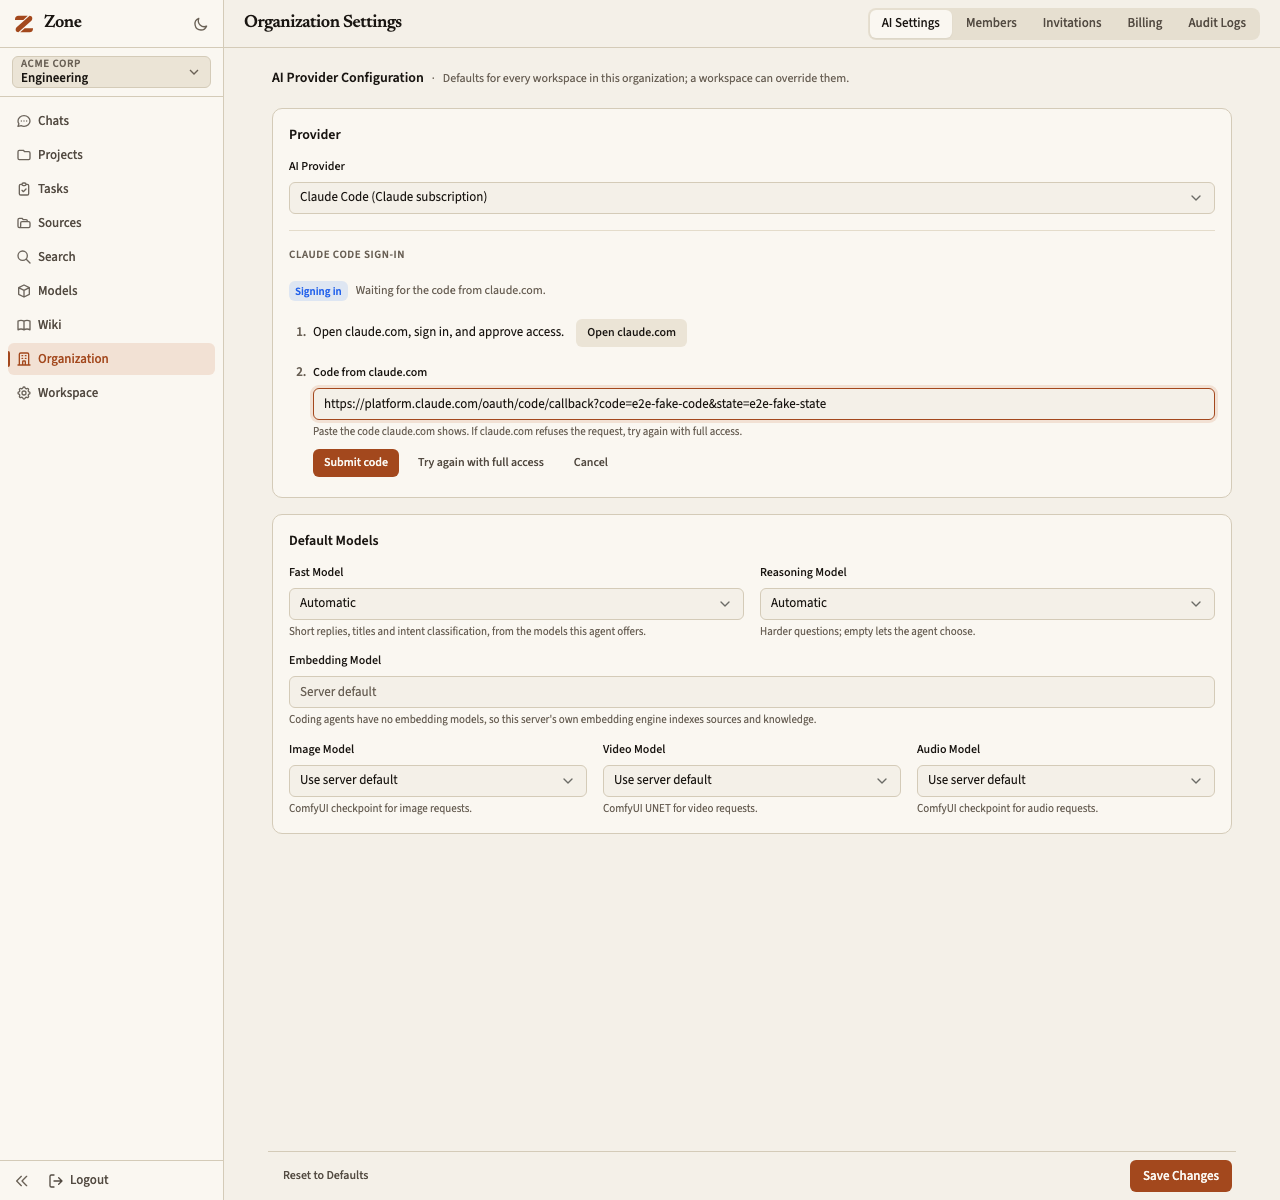
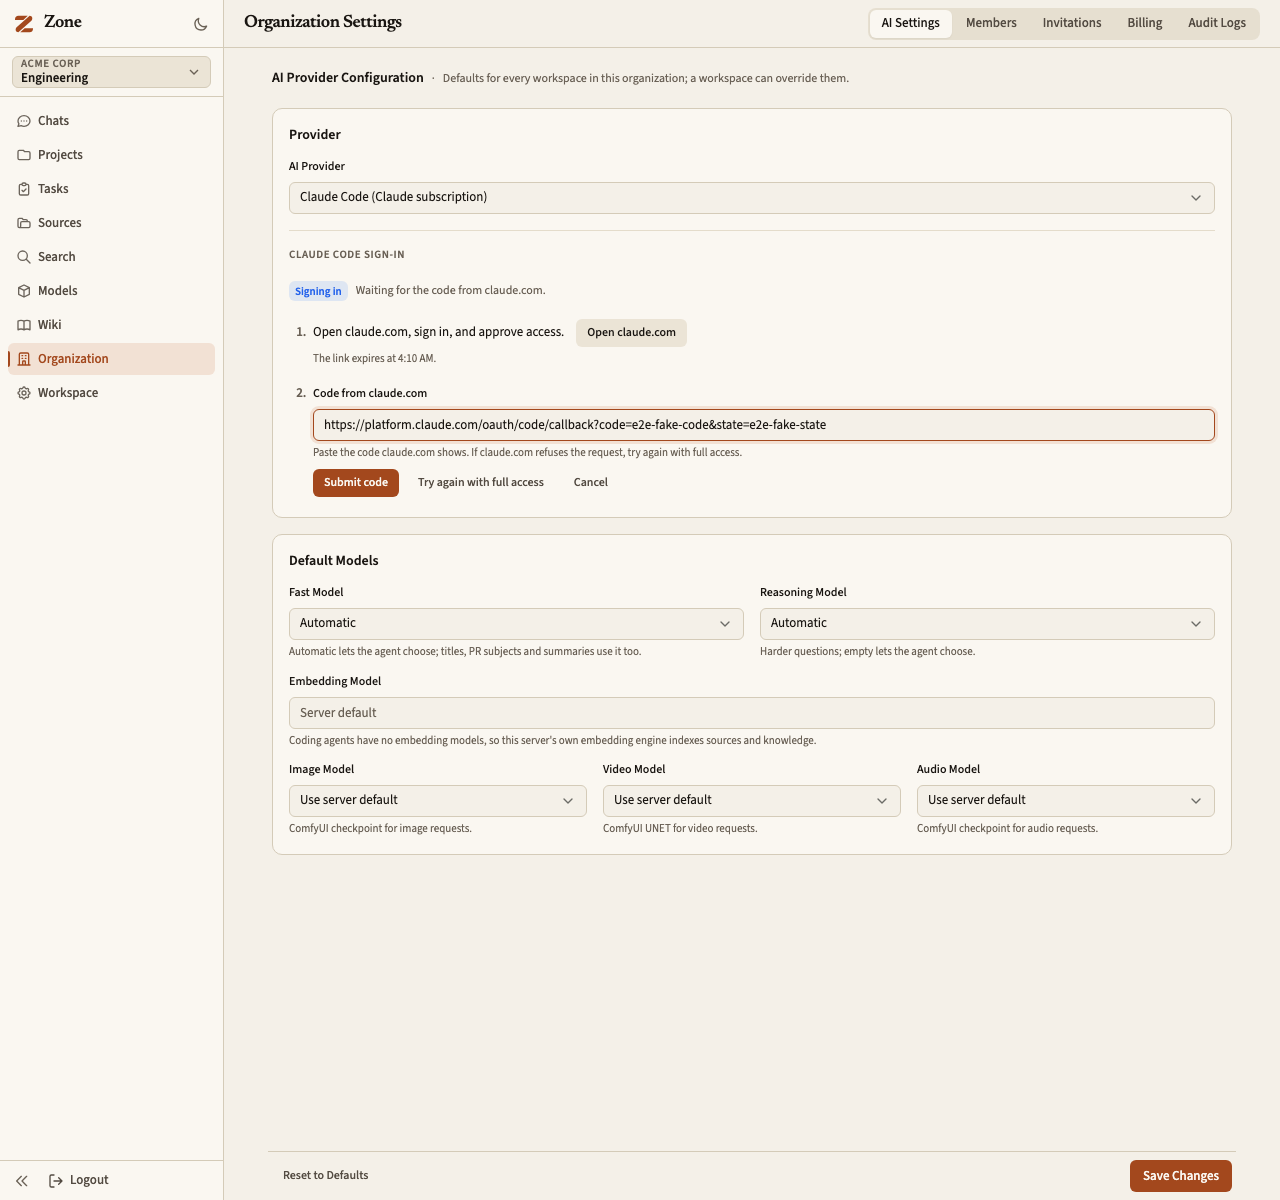
test(settings): drive Start again, both member views and focus in the browser
The agent sign-in spec now follows the server's K1 contract instead of
a 502 with no kind:
- a paste the server cannot read (400 invalid_code) keeps the link,
  marks the field invalid and keeps focus in it ("claude-rejected");
- a code Claude rejected (502 start_again) drops the link and offers
  Start again beside full access ("start-again"); Start again restarts
  at the same scope and the full-access retry then disappears, with the
  three start bodies checked.

It also checks in Chromium what happy-dom cannot prove: focus lands in
the paste field after a start, on the status line after a keyboard
submit and on the one-time code after a device start; the link's expiry
shows; and Sign out opens the every-workspace confirmation, whose Cancel
sends nothing.

The member who sees a pending sign-in now captures "member-neutral"
(the neutral "Not signed in"), and "member-view" is a member looking at
a working Claude Code sign-in with no buttons and no save prompt, under
the workspace card's h3 heading.

All agent-sign-in screenshots are retaken; every capture still asserts
both settings cards, no element outside its card and no sideways
scroll.

Changed region(s): [[0.2188, 0.2775, 0.9688, 0.7092], [0.6875, 0.6167, 0.875, 0.7092], [0.5938, 0.4625, 0.7812, 0.555]]

diff --git a/manager/frontend/e2e/agent-sign-in.e2e.ts b/manager/frontend/e2e/agent-sign-in.e2e.ts
@@ -31,6 +31,10 @@ const authorize =
   'https://claude.com/cai/oauth/authorize?code=true&client_id=e2e-fake-client&response_type=code&redirect_uri=https%3A%2F%2Fplatform.claude.com%2Foauth%2Fcode%2Fcallback&scope=user%3Ainference&code_challenge=e2e-fake-challenge&code_challenge_method=S256&state=e2e-fake-state';
 const fullAuthorize =
   'https://claude.com/cai/oauth/authorize?code=true&client_id=e2e-fake-client&response_type=code&redirect_uri=https%3A%2F%2Fplatform.claude.com%2Foauth%2Fcode%2Fcallback&scope=org%3Acreate_api_key+user%3Aprofile+user%3Ainference&code_challenge=e2e-fake-challenge-2&code_challenge_method=S256&state=e2e-fake-state-2';
+const restartAuthorize =
+  'https://claude.com/cai/oauth/authorize?code=true&client_id=e2e-fake-client&response_type=code&redirect_uri=https%3A%2F%2Fplatform.claude.com%2Foauth%2Fcode%2Fcallback&scope=user%3Ainference&code_challenge=e2e-fake-challenge-3&code_challenge_method=S256&state=e2e-fake-state-3';
+const unreadable = 'The code could not be read. Paste the whole code claude.com shows.';
+const spent = 'Claude rejected the code: Invalid authorization code. Start again.';
 const callback =
   'https://platform.claude.com/oauth/code/callback?code=e2e-fake-code&state=e2e-fake-state';
 const refusal =
@@ -241,6 +245,8 @@ test.describe('Coding agent sign-in', () => {
     await expect(link).toHaveAttribute('href', authorize);
     await expect(link).toHaveAttribute('target', '_blank');
     await expect(link).toHaveAttribute('rel', 'noopener noreferrer');
+    await expect(panel.getByText('The link expires at 4:10 AM.')).toBeVisible();
+    await expect(panel.getByLabel('Code from claude.com')).toBeFocused();
     await expect(panel.getByRole('button', { name: 'Try again with full access' })).toBeVisible();
     await expect(panel.getByRole('button', { name: 'Submit code' })).toBeDisabled();
     await expect(panel.locator('ol')).toHaveCSS('list-style-type', 'decimal');
@@ -259,6 +265,7 @@ test.describe('Coding agent sign-in', () => {
     await field.press('Enter');
     await expect(panel.getByText('Signed in', { exact: true })).toBeVisible();
     await expect(panel.getByText('Claude Max · Expires Sep 23, 2027')).toBeVisible();
+    await expect(panel.getByRole('status')).toBeFocused();
     await expect(panel.getByRole('button', { name: 'Sign out' })).toBeVisible();
     await expect(field).toHaveCount(0);
     expect(captured.find((request) => request.path.endsWith('/claude/login/code'))?.body).toEqual({
@@ -282,31 +289,44 @@ test.describe('Coding agent sign-in', () => {
     expect(saved.provider).toBe('claude_code');
     expect(saved.model_fast).toBe('sonnet');
     expect(saved.model_reasoning).toBe('opus');
+    expect(saved.model_embedding).toBe('');
     expect(Object.keys(saved).filter((key) => !key.startsWith('model_'))).toEqual(['provider']);
+
+    await panel.getByRole('button', { name: 'Sign out' }).click();
+    const dialog = page.getByRole('dialog', { name: 'Sign out of Claude Code?' });
+    await expect(dialog).toContainText(
+      'This signs Claude Code out for every workspace in this organization.'
+    );
+    await dialog.getByRole('button', { name: 'Cancel' }).click();
+    await expect(dialog).toHaveCount(0);
+    await expect(panel.getByText('Signed in', { exact: true })).toBeVisible();
+    expect(captured.filter((request) => request.method === 'DELETE')).toHaveLength(0);
   });
 
-  test('a rejected Claude code offers a retry with full access', async ({ page }) => {
-    let starts = 0;
+  test('a Claude sign-in keeps its link for a bad paste and starts again once spent', async ({
+    page,
+  }) => {
+    const links = [authorize, restartAuthorize, fullAuthorize];
+    let exchanges = 0;
     const captured = await mockApi(page, {
       role: 'admin',
       provider: 'claude_code',
       agents: (method, path) => {
         if (method === 'GET' && path === '') return signedOut;
         if (method === 'POST' && path === '/claude/login') {
-          starts += 1;
           return {
             json: {
               agent: 'claude',
-              authorize_url: starts === 1 ? authorize : fullAuthorize,
+              authorize_url: links.shift(),
               expires_at: '2026-09-23T04:10:00Z',
             },
           };
         }
         if (method === 'POST' && path === '/claude/login/code') {
-          return {
-            status: 502,
-            json: { error: 'Claude rejected the code: Invalid authorization code' },
-          };
+          exchanges += 1;
+          return exchanges === 1
+            ? { status: 400, json: { error: unreadable, kind: 'invalid_code' } }
+            : { status: 502, json: { error: spent, kind: 'start_again' } };
         }
         return { status: 404, json: { error: `unexpected ${method} ${path}` } };
       },
@@ -316,13 +336,38 @@ test.describe('Coding agent sign-in', () => {
 
     const panel = page.getByRole('region', { name: 'Claude Code sign-in' });
     await panel.getByRole('button', { name: 'Sign in with Claude' }).click();
-    await panel.getByLabel('Code from claude.com').fill('e2e-fake-code#e2e-fake-state');
+    const field = panel.getByLabel('Code from claude.com');
+    await field.fill('half-a-code');
     await panel.getByRole('button', { name: 'Submit code' }).click();
 
-    await expect(panel.getByRole('alert')).toHaveText(
-      'Claude rejected the code: Invalid authorization code'
+    await expect(panel.getByRole('alert')).toHaveText(unreadable);
+    await expect(field).toHaveAttribute('aria-invalid', 'true');
+    await expect(field).toBeFocused();
+    await expect(panel.getByRole('link', { name: 'Open claude.com' })).toHaveAttribute(
+      'href',
+      authorize
     );
     await capture(page, 'claude-rejected');
+
+    await field.fill('e2e-fake-code#e2e-fake-state');
+    await panel.getByRole('button', { name: 'Submit code' }).click();
+
+    await expect(panel.getByRole('alert')).toHaveText(spent);
+    await expect(panel.getByRole('link', { name: 'Open claude.com' })).toHaveCount(0);
+    await expect(field).toHaveCount(0);
+    await expect(panel.getByText('Not signed in', { exact: true })).toBeVisible();
+    await expect(
+      panel.getByText('Start again to get a new link from claude.com.', { exact: true })
+    ).toBeVisible();
+    await expect(panel.getByRole('button', { name: 'Try again with full access' })).toBeVisible();
+    await capture(page, 'start-again');
+
+    await panel.getByRole('button', { name: 'Start again' }).click();
+    await expect(panel.getByRole('link', { name: 'Open claude.com' })).toHaveAttribute(
+      'href',
+      restartAuthorize
+    );
+    await expect(panel.getByRole('alert')).toHaveCount(0);
 
     await panel.getByRole('button', { name: 'Try again with full access' }).click();
     await expect(panel.getByRole('link', { name: 'Open claude.com' })).toHaveAttribute(
@@ -330,11 +375,13 @@ test.describe('Coding agent sign-in', () => {
       fullAuthorize
     );
     await expect(
-      panel.getByText('This link asks for full access to your Claude account.')
+      panel.getByText(
+        'This link asks for full access to your Claude account. It expires at 4:10 AM.'
+      )
     ).toBeVisible();
-    await expect(panel.getByRole('alert')).toHaveCount(0);
-    const logins = captured.filter((request) => request.path.endsWith('/claude/login'));
-    expect(logins.map((request) => request.body)).toEqual([{}, { scope: 'full' }]);
+    await expect(panel.getByRole('button', { name: 'Try again with full access' })).toHaveCount(0);
+    const starts = captured.filter((request) => request.path.endsWith('/claude/login'));
+    expect(starts.map((request) => request.body)).toEqual([{}, {}, { scope: 'full' }]);
   });
 
   test('an owner signs Codex in with a device code and polling stops once signed in', async ({
@@ -367,6 +414,7 @@ test.describe('Coding agent sign-in', () => {
     const panel = page.getByRole('region', { name: 'Codex sign-in' });
     await panel.getByRole('button', { name: 'Sign in with ChatGPT' }).click();
     await expect(panel.getByText('ABCD-EFGHI')).toBeVisible();
+    await expect(panel.getByText('ABCD-EFGHI')).toBeFocused();
     await expect(panel.getByText('Signing in', { exact: true })).toBeVisible();
     const link = panel.getByRole('link', { name: 'auth.openai.com/codex/device' });
     await expect(link).toHaveAttribute('href', device.verification_url);
@@ -412,7 +460,9 @@ test.describe('Coding agent sign-in', () => {
     await capture(page, 'codex-refused');
   });
 
-  test('a member sees the organization sign-in without a code or any button', async ({ page }) => {
+  test('a member sees a sign-in in progress as not signed in, with no code or button', async ({
+    page,
+  }) => {
     const captured = await mockApi(page, {
       role: 'member',
       provider: 'claude_code',
@@ -444,6 +494,44 @@ test.describe('Coding agent sign-in', () => {
     await expect(panel.getByRole('button')).toHaveCount(0);
     await expect(panel.getByRole('link')).toHaveCount(0);
     await expect(panel.getByText('ABCD-EFGHI')).toHaveCount(0);
+    await capture(page, 'member-neutral');
+    expect(
+      captured.filter((request) => request.method !== 'GET' && request.path.startsWith(agentsPath))
+    ).toHaveLength(0);
+  });
+
+  test('a member sees a working sign-in without a way to end it', async ({ page }) => {
+    const signedIn = status('claude', {
+      state: 'signed_in',
+      source: 'zone',
+      label: 'Claude Max',
+      expires_at: '2027-09-23T12:00:00Z',
+    });
+    const captured = await mockApi(page, {
+      role: 'member',
+      provider: 'codex',
+      workspaceProvider: 'claude_code',
+      agents: (method, path) => {
+        if (method === 'GET' && path === '') {
+          return { json: { agents: [signedIn, status('codex')] } };
+        }
+        return {
+          status: 403,
+          json: { error: 'Only organization admins can sign in to coding agents' },
+        };
+      },
+    });
+    await setupAuth(page);
+    await page.goto('/settings');
+    await page.getByRole('tab', { name: 'AI Settings' }).click();
+
+    await expect(page.getByLabel('AI Provider')).toHaveValue('claude_code');
+    const panel = page.getByRole('region', { name: 'Claude Code sign-in' });
+    await expect(panel.getByRole('heading', { level: 3 })).toHaveText('Claude Code sign-in');
+    await expect(panel.getByText('Signed in', { exact: true })).toBeVisible();
+    await expect(panel.getByText('Claude Max · Expires Sep 23, 2027')).toBeVisible();
+    await expect(panel.getByRole('button')).toHaveCount(0);
+    await expect(panel.getByText('Save Changes to use this provider.')).toHaveCount(0);
     await capture(page, 'member-view');
     expect(
       captured.filter((request) => request.method !== 'GET' && request.path.startsWith(agentsPath))
